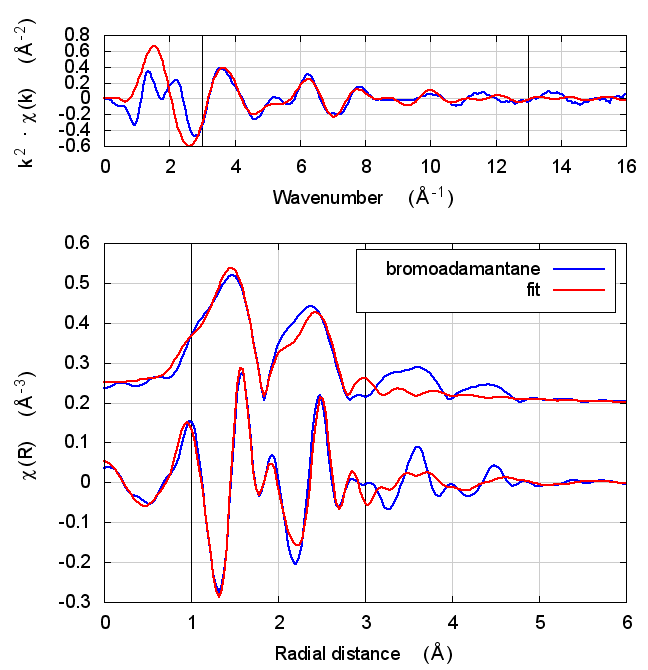
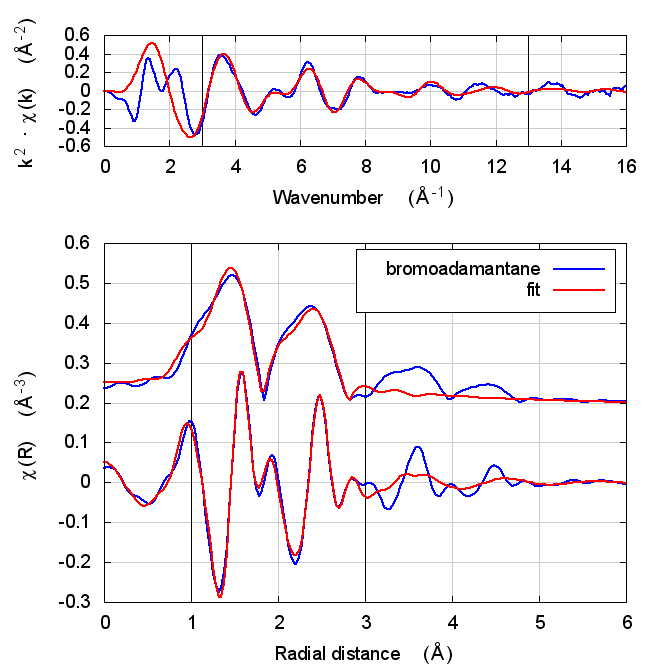
slightly better fitting model fro bromoadamantane

diff --git a/scf.tex b/scf.tex
@@ -52,8 +52,9 @@
 \renewcommand{\footrulewidth}{0pt}
 \renewcommand{\headsep}{35pt}
 
-
-
+\usepackage{titlesec}
+\newcommand{\sectionbreak}{\clearpage}
+\graphicspath{{/home/bruce/TeX/writing/Papers/feff85exafs/mue/}{/home/bruce/git/SCFtests/}}
 
 \usepackage{highlight}
 
@@ -209,7 +210,8 @@ Here are the conditions of the tests:
 %   hopes that it will help make sense of the fitted values for $E_0$.
 \end{enumerate}
 
-\rule{\linewidth}{0.5pt}
+%\rule{\linewidth}{0.5pt}
+
 
 \section{Copper}
 \label{sec:orgheadline7}
@@ -229,6 +231,14 @@ single scattering path.
 
 \texttt{amp} and \texttt{alpha} are unitless. \texttt{enot} is eV,
 \texttt{ss1} is {\AA}$^2$, and \texttt{thetad} is K.
+
+\begin{figure}[h]
+  \centering
+  \includegraphics[width=.65\linewidth]{copper.pdf} 
+  \caption{$\mu(E)$ data for copper metal, showing the background
+    removal spline and the normalization polynomials.}
+  \label{fig:copper-data}
+\end{figure}
 
 \subsection{Best fit values}
 \label{sec:orgheadline2}
@@ -329,7 +339,7 @@ change much across the models. Amusingly, reduced $\chi^2$ and
 R-factor are slightly smaller \emph{without} the use of
 self-consistency.
 
-\rule{\linewidth}{0.5pt}
+%\rule{\linewidth}{0.5pt}
 
 \section{Nickel oxide}
 \label{sec:orgheadline13}
@@ -362,6 +372,14 @@ parameter (\texttt{sso}, \texttt{ssni}, \texttt{sso2}, and
 \texttt{amp} and \texttt{alpha} are unitless. \texttt{enot} is
 eV. \texttt{sso}, \texttt{ssni}, \texttt{sso2}, and \texttt{ssni2} are
 {\AA}$^2$.
+
+\begin{figure}[h]
+  \centering
+  \includegraphics[width=.65\linewidth]{NiO.pdf}
+  \caption{$\mu(E)$ data for NiO, showing the background
+    removal spline and the normalization polynomials.}
+  \label{fig:nio-data}
+\end{figure}
 
 \subsection{Best fit values}
 \label{sec:orgheadline8}
@@ -477,8 +495,8 @@ parameter of 0 when the edge is chosen at the inflection point of the
 rising edge of the XAS data.  See the manuscript for more discussion
 on this.
 
-\rule{\linewidth}{0.5pt}
-\pagebreak
+%\rule{\linewidth}{0.5pt}
+%\pagebreak
 
 \section{Pyrite (iron sulfide)}
 \label{sec:orgheadline19}
@@ -515,6 +533,15 @@ Fe, and four paths that bounce around among first shell S atoms.
 
 \texttt{amp} and \texttt{alpha} are unitless. \texttt{enot} is
 eV. \texttt{ss}, \texttt{ss2}, and \texttt{ssfe} are {\AA}$^2$.
+
+\begin{figure}[h]
+  \centering
+  \includegraphics[width=.65\linewidth]{FeS2.pdf} 
+  \caption{$\mu(E)$ data for FeS$_2$, showing the background
+    removal spline and the normalization polynomials.}
+  \label{fig:fes2-data}
+\end{figure}
+
 
 \subsection{Best fit values}
 \label{sec:orgheadline14}
@@ -617,7 +644,8 @@ within the fitting range but which are not included in this fit. This
 may account for the increase in reduced $\chi^2$ and R-factor between
 \textsc{feff6} and \textsc{feff8}.
 
-\rule{\linewidth}{0.5pt}
+%\rule{\linewidth}{0.5pt}
+%\pagebreak
 
 \section{Uraninite}
 \label{sec:orgheadline25}
@@ -652,6 +680,15 @@ paper.
 \texttt{amp} is unitless. \texttt{enot} is eV. \texttt{dro},
 \texttt{dru}, and \texttt{dro2} are {\AA}. \texttt{sso}, \texttt{ssu},
 and \texttt{sso2} are \AA$^2$.
+
+\begin{figure}[h]
+  \centering
+  \includegraphics[width=.65\linewidth]{UO2.pdf} 
+  \caption{$\mu(E)$ data for UO$_2$, showing the background
+    removal spline and the normalization polynomials.}
+  \label{fig:uo2-data}
+\end{figure}
+
 
 \subsection{Best fit values}
 \label{sec:orgheadline20}
@@ -770,8 +807,8 @@ change outside of its very large uncertainty, it does change
 substantively. This would likely effect the interpretation of the
 fitting results in the context of the reduction process.
 
-\rule{\linewidth}{0.5pt}
-\pagebreak
+%\rule{\linewidth}{0.5pt}
+%\pagebreak
 
 \section{Barium zirconate}
 \label{sec:orgheadline31}
@@ -809,6 +846,15 @@ parametrized as described in the paper.
 
 \texttt{amp} and \texttt{alpha} are unitless. \texttt{enot}, \texttt{ezr}, and \texttt{eba} are eV. \texttt{sso},
 \texttt{sszr}, \texttt{ssba}, and \texttt{sso2} are {\AA}$^2$.
+
+\begin{figure}[h]
+  \centering
+  \includegraphics[width=.65\linewidth]{BaZrO3.pdf} 
+  \caption{$\mu(E)$ data for the Zr edge of BaZrO$_3$, showing the
+    background removal spline and the normalization polynomials.}
+  \label{fig:bazro3-data}
+\end{figure}
+
 
 \subsection{Best fit values}
 \label{sec:orgheadline26}
@@ -933,8 +979,8 @@ uncertainties. In this case, the reduced $\chi^2$ and R-factor were a bit
 lower with self-consistency with relative reductions on the same scale
 as the increases in FeS2 and NiO.
 
-\rule{\linewidth}{0.5pt}
-\pagebreak
+%\rule{\linewidth}{0.5pt}
+%\pagebreak
 
 \section{Bromoadamantane}
 \label{sec:orgheadline37}
@@ -973,6 +1019,15 @@ bond. Thus, the formula explained in
 \href{http://dx.doi.org/10.1088/1742-6596/190/1/012026}{DOI:
   10.1088/1742-6596/190/1/012026} is used to constrain the second
 neighbor C distance to the first neighbor C $\Delta$R parameter.
+
+\begin{figure}[h]
+  \centering
+  \includegraphics[width=.65\linewidth]{1-bromoadamantane.pdf}
+  \caption{$\mu(E)$ data for 1-bromoadamantane, showing the background
+    removal spline and the normalization polynomials.}
+  \label{fig:bromoadamantane-data}
+\end{figure}
+
 
 \subsection{Best fit values}
 \label{sec:orgheadline32}
@@ -1077,7 +1132,7 @@ answer may be ``yes'' and may be ``no'', but these data on
 bromoadamantane don't suggest that it is any worse than
 \textsc{feff8}.
 
-\rule{\linewidth}{0.5pt}
+%\rule{\linewidth}{0.5pt}
 
 \section{Uranyl hydrate}
 \label{sec:orgheadline43}
@@ -1117,6 +1172,15 @@ $\Delta$R (\texttt{deloax} and \texttt{deloeq}) and a $\sigma^2$
 \texttt{amp} is unitless. \texttt{enot} is eV. \texttt{deloax} and
 \texttt{deloeq} are {\AA}. \texttt{sigoax} and \texttt{sigoeq} are
 {\AA}$^2$.
+
+\begin{figure}[h]
+  \centering
+  \includegraphics[width=.65\linewidth]{uranyl.pdf}
+  \caption{$\mu(E)$ data for uranyl hydrate, showing the background
+    removal spline and the normalization polynomials.}
+  \label{fig:uranyl-data}
+\end{figure}
+
 
 \subsection{Best fit values}
 \label{sec:orgheadline38}
@@ -1228,7 +1292,7 @@ Also like the UO2 example, the $S_0^2$ value is a bit different using
 \textsc{feff6} and \textsc{feff8}, which could have an impact on the interpretation of
 the data. It is, however, correlated with the axial $\sigma^2$ result.
 
-\rule{\linewidth}{0.5pt}
+%\rule{\linewidth}{0.5pt}
 
 \section{Conclusion}
 \label{sec:orgheadline47}

diff --git a/bromoadamantane/bromoadamantane.py b/bromoadamantane/bromoadamantane.py
@@ -35,15 +35,17 @@ def do_fit(self, which, firstshell=False, fittest='baseline'):
                 _larch=self._larch  )
     if not firstshell:
         gds.brc     = Parameter(expr = '1.9521+delr',  units='AA',  _larch=self._larch)
-        gds.phir    = Parameter(109.29960 * 3.141592653589793 / 180,   vary=False, _larch=self._larch)
+        #gds.phir    = Parameter(109.29960 * 3.141592653589793 / 180,   vary=False, _larch=self._larch)
         gds.cc      = Parameter(1.53780,   vary=False, _larch=self._larch)
-        gds.tanbeta = Parameter(expr = '(brc+cc)*tan(phir/2) / (brc-cc)', _larch=self._larch)
-        gds.beta    = Parameter(expr = 'atan(tanbeta)', _larch=self._larch)
-        gds.brc2    = Parameter(expr = '(brc-cc)*cos(phir/2)/cos(beta)',  units='AA', _larch=self._larch)
+        #gds.tanbeta = Parameter(expr = '(brc+cc)*tan(phir/2) / (brc-cc)', _larch=self._larch)
+        #gds.beta    = Parameter(expr = 'atan(tanbeta)', _larch=self._larch)
+        #gds.brc2    = Parameter(expr = '(brc-cc)*cos(phir/2)/cos(beta)',  units='AA', _larch=self._larch)
         gds.drh     = Parameter(0.04,      vary=True,  units='AA', decimals=3, _larch=self._larch)
         gds.ssh     = Parameter(0.005,     vary=True,  units='AA^2', _larch=self._larch)
         gds.ss2     = Parameter(expr = 'ss*(brc2/brc)**2', units ='AA^2', _larch=self._larch)
-
+        gds.drc     = Parameter(0.04,      vary=True,  units='AA', decimals=3, _larch=self._larch)
+        gds.brc2    = Parameter(expr = '2.8565+drc',   units='AA', decimals=3, _larch=self._larch)
+        
     paths = list()
     paths.append(feffpath(realpath(join(folder, "feff0001.dat")),
                           s02    = 'amp',
@@ -57,7 +59,8 @@ def do_fit(self, which, firstshell=False, fittest='baseline'):
                               s02    = 'amp',
                               e0     = 'enot',
                               sigma2 = 'ss2',
-                              deltar = 'brc2-2.8565', _larch=self._larch))
+                              #deltar = 'brc2-2.8565',
+                              deltar = 'drc',_larch=self._larch))
         paths.append(feffpath(realpath(join(folder, "feff0003.dat")),
                               s02    = 'amp',
                               e0     = 'enot',
